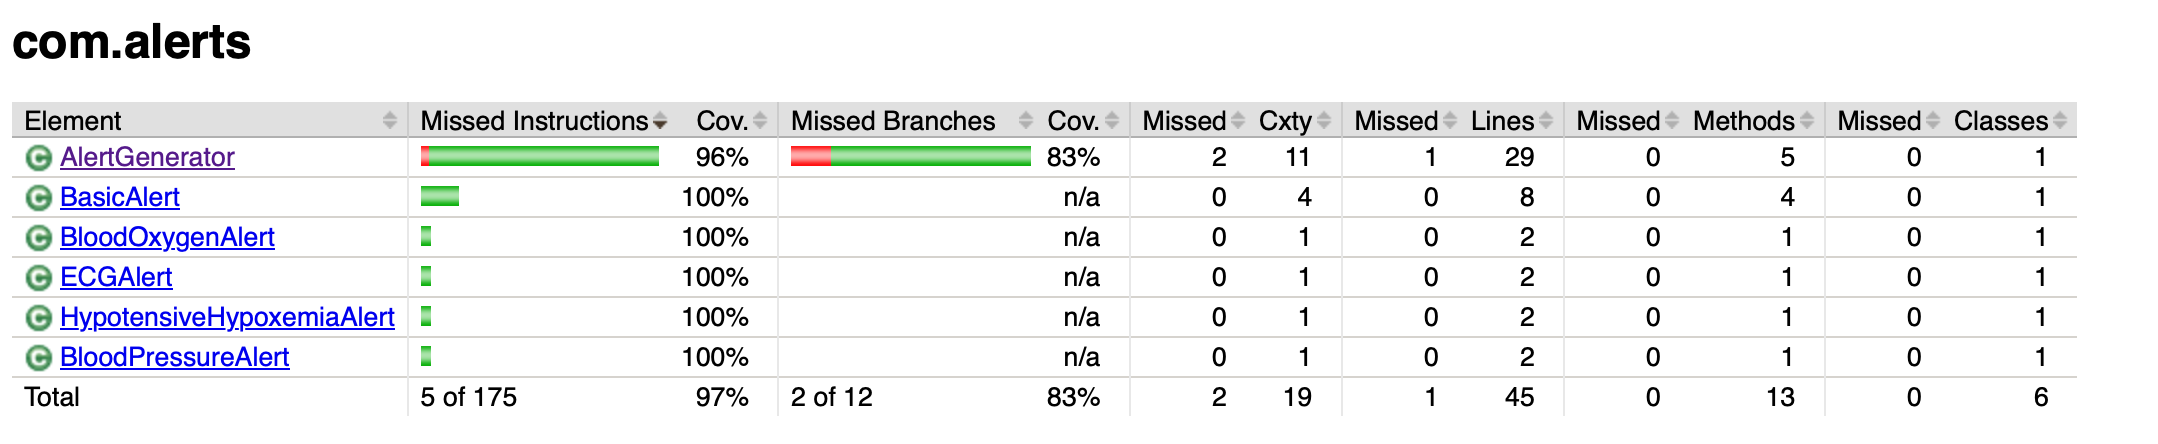
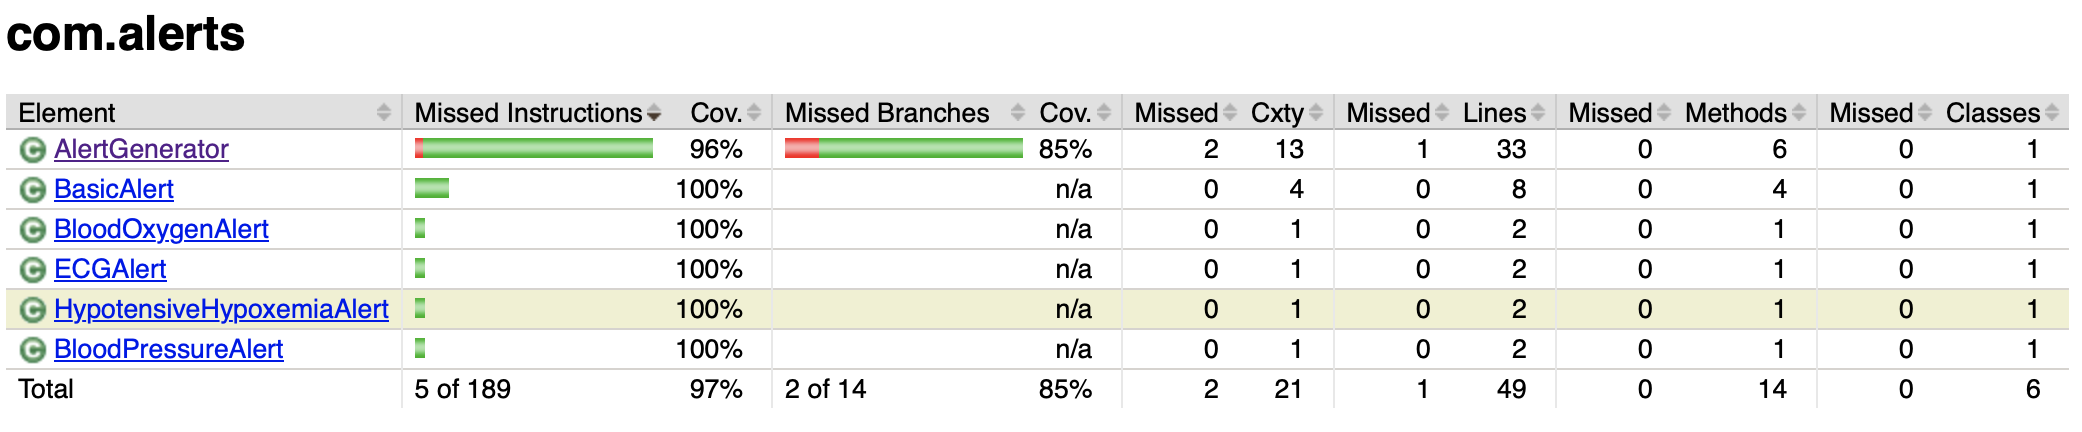
added jacoco png, updated report

Changed region(s): [[0.0, 0.2106, 0.999, 0.9329], [0.0, 0.0301, 0.1249, 0.1505]]

diff --git a/src/main/java/com/medical/Main.java b/src/main/java/com/medical/Main.java
@@ -17,7 +17,10 @@ public class Main {
 
         DataStorage storage = DataStorage.getInstance();
         AlertGenerator alertGenerator = new AlertGenerator(storage);
+
         String serverUri = "ws://localhost:8080";
+        System.out.println("Connecting to medical data stream at: " + serverUri);
+
         WebSocketClient client = new WebSocketClient(serverUri);
         System.out.println("Real-time monitoring system started...");
 
@@ -28,8 +31,11 @@ public class Main {
                 // frequency of analysis (every 2 seconds)
                 Thread.sleep(2000); 
             } catch (InterruptedException e) {
-                System.err.println("Monitoring loop interrupted: " + e.getMessage());
+                System.err.println("Monitoring loop interrupted. Shutting down... ");
+                client.disconnect();
                 break;
+            } catch (Exception e) {
+                System.err.println("An error occurred during alert generation: " + e.getMessage());
             }
         }
     }